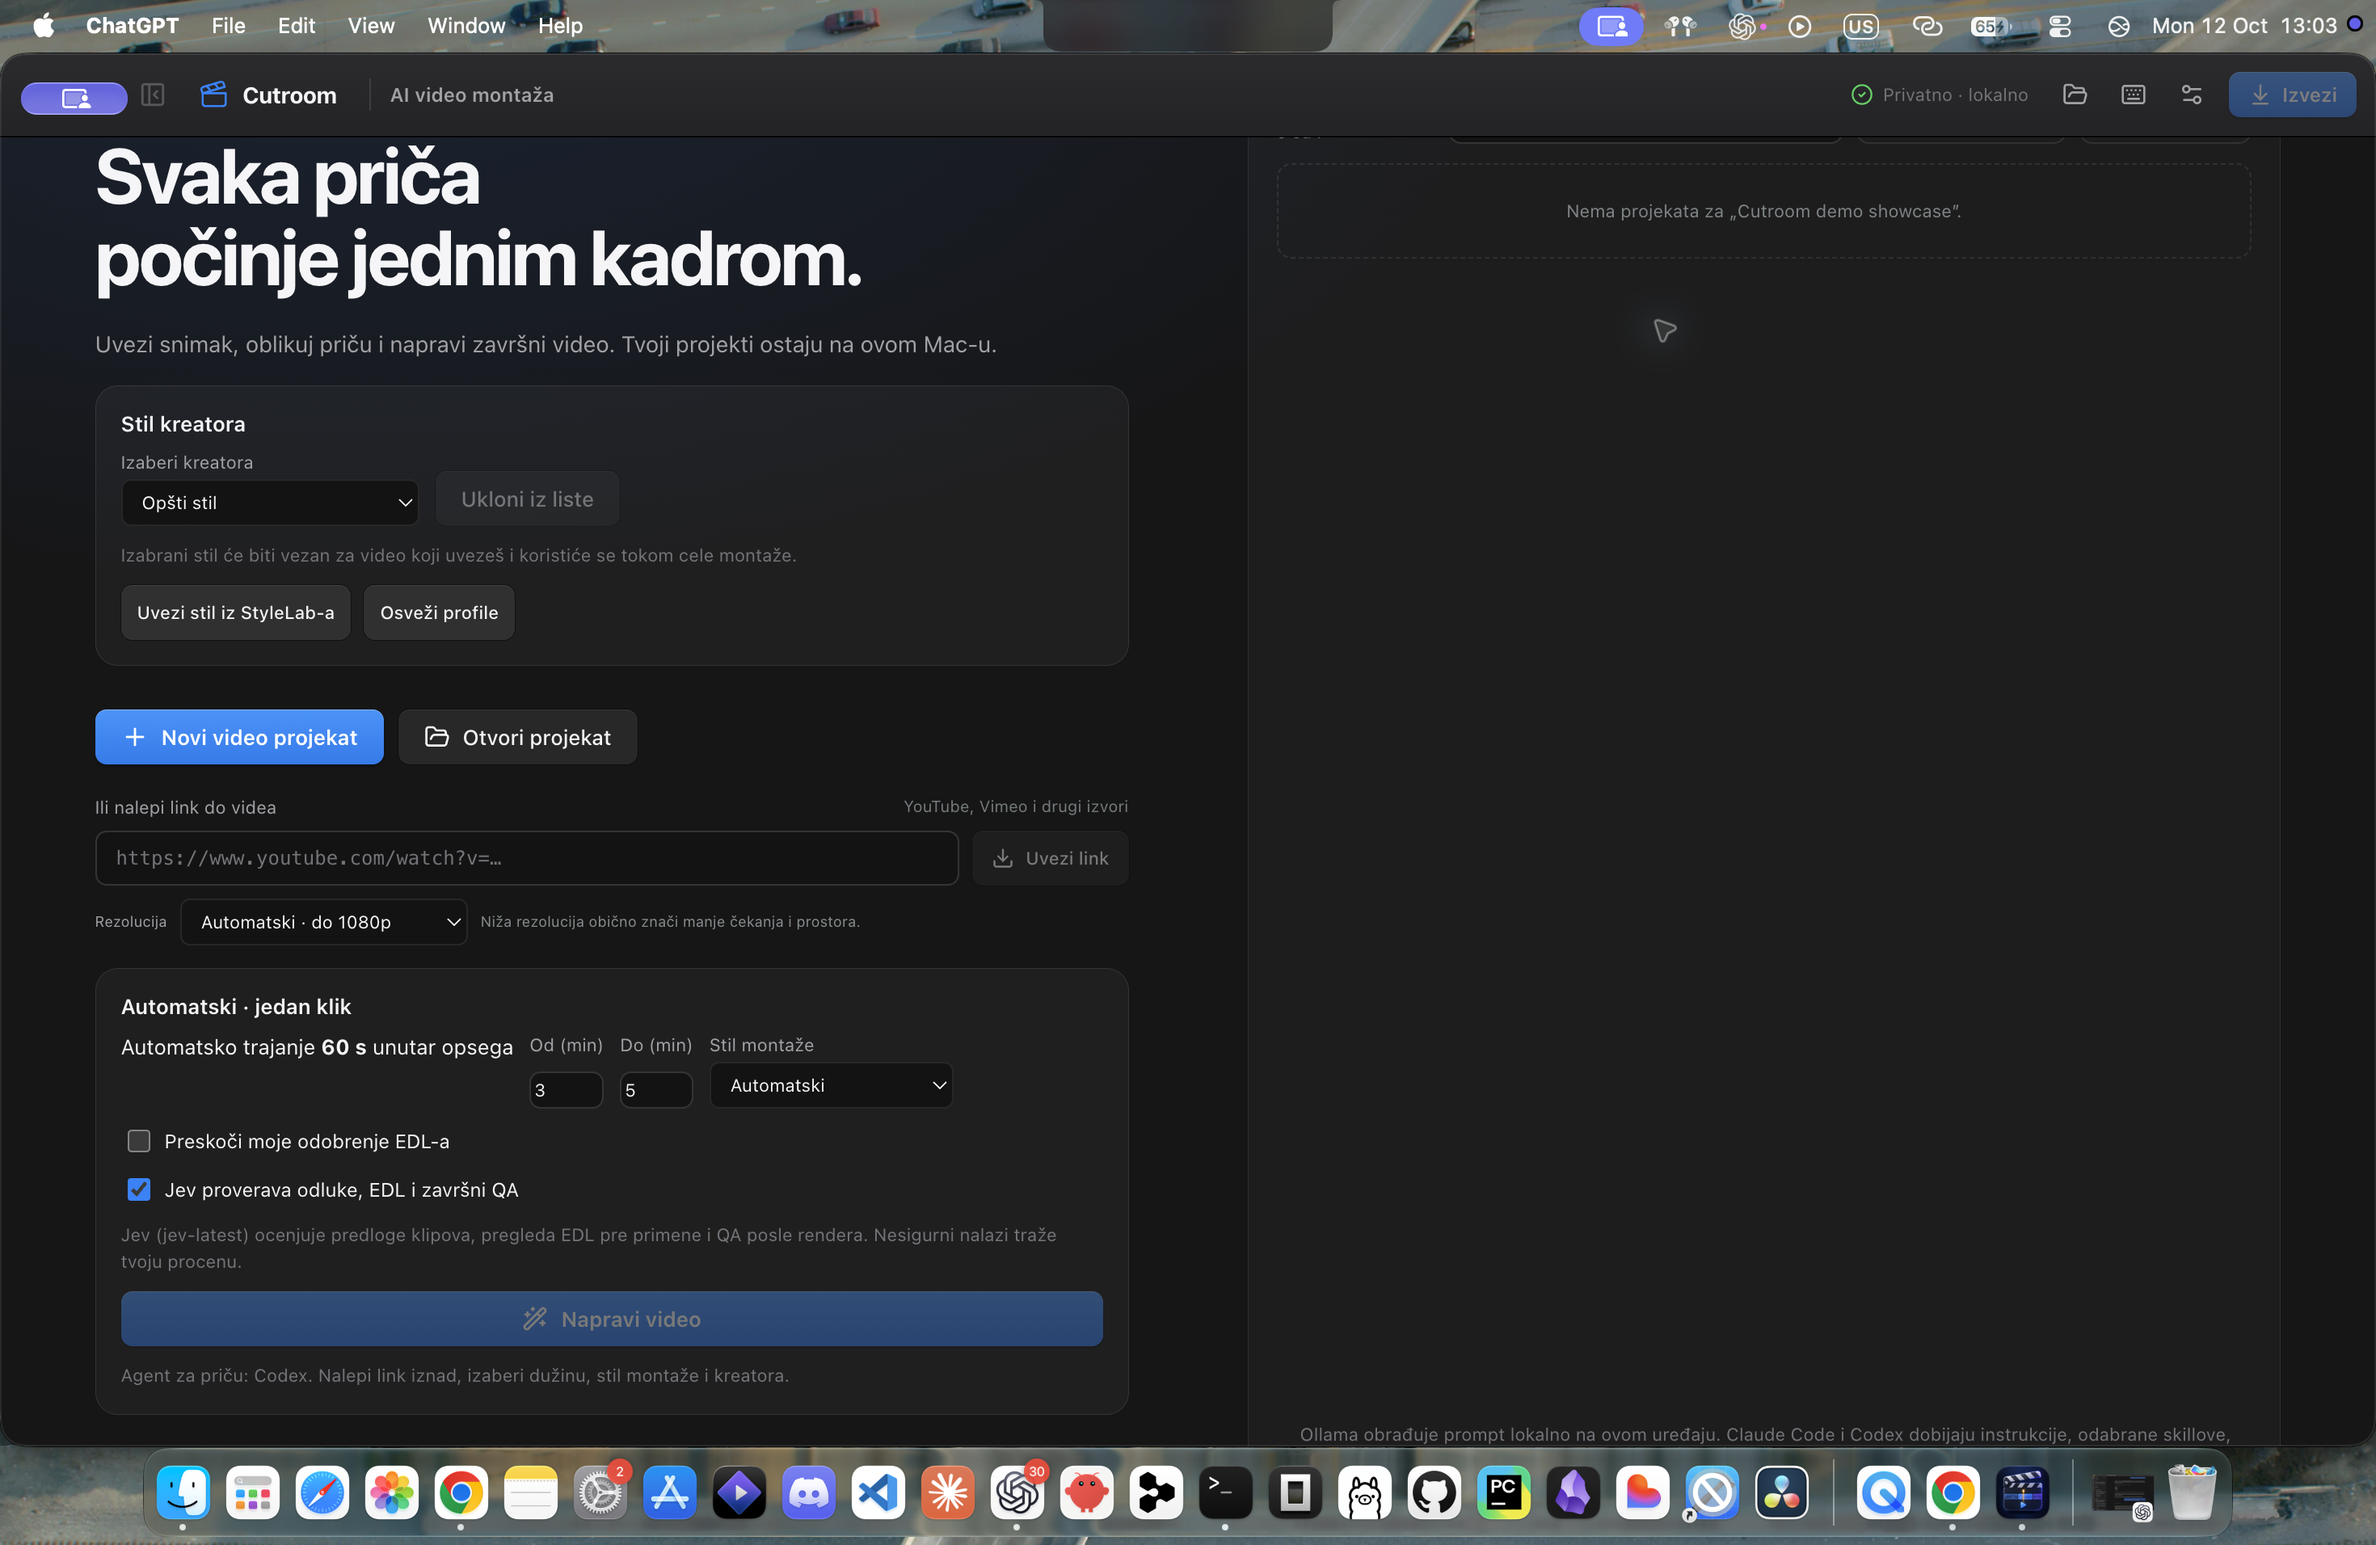
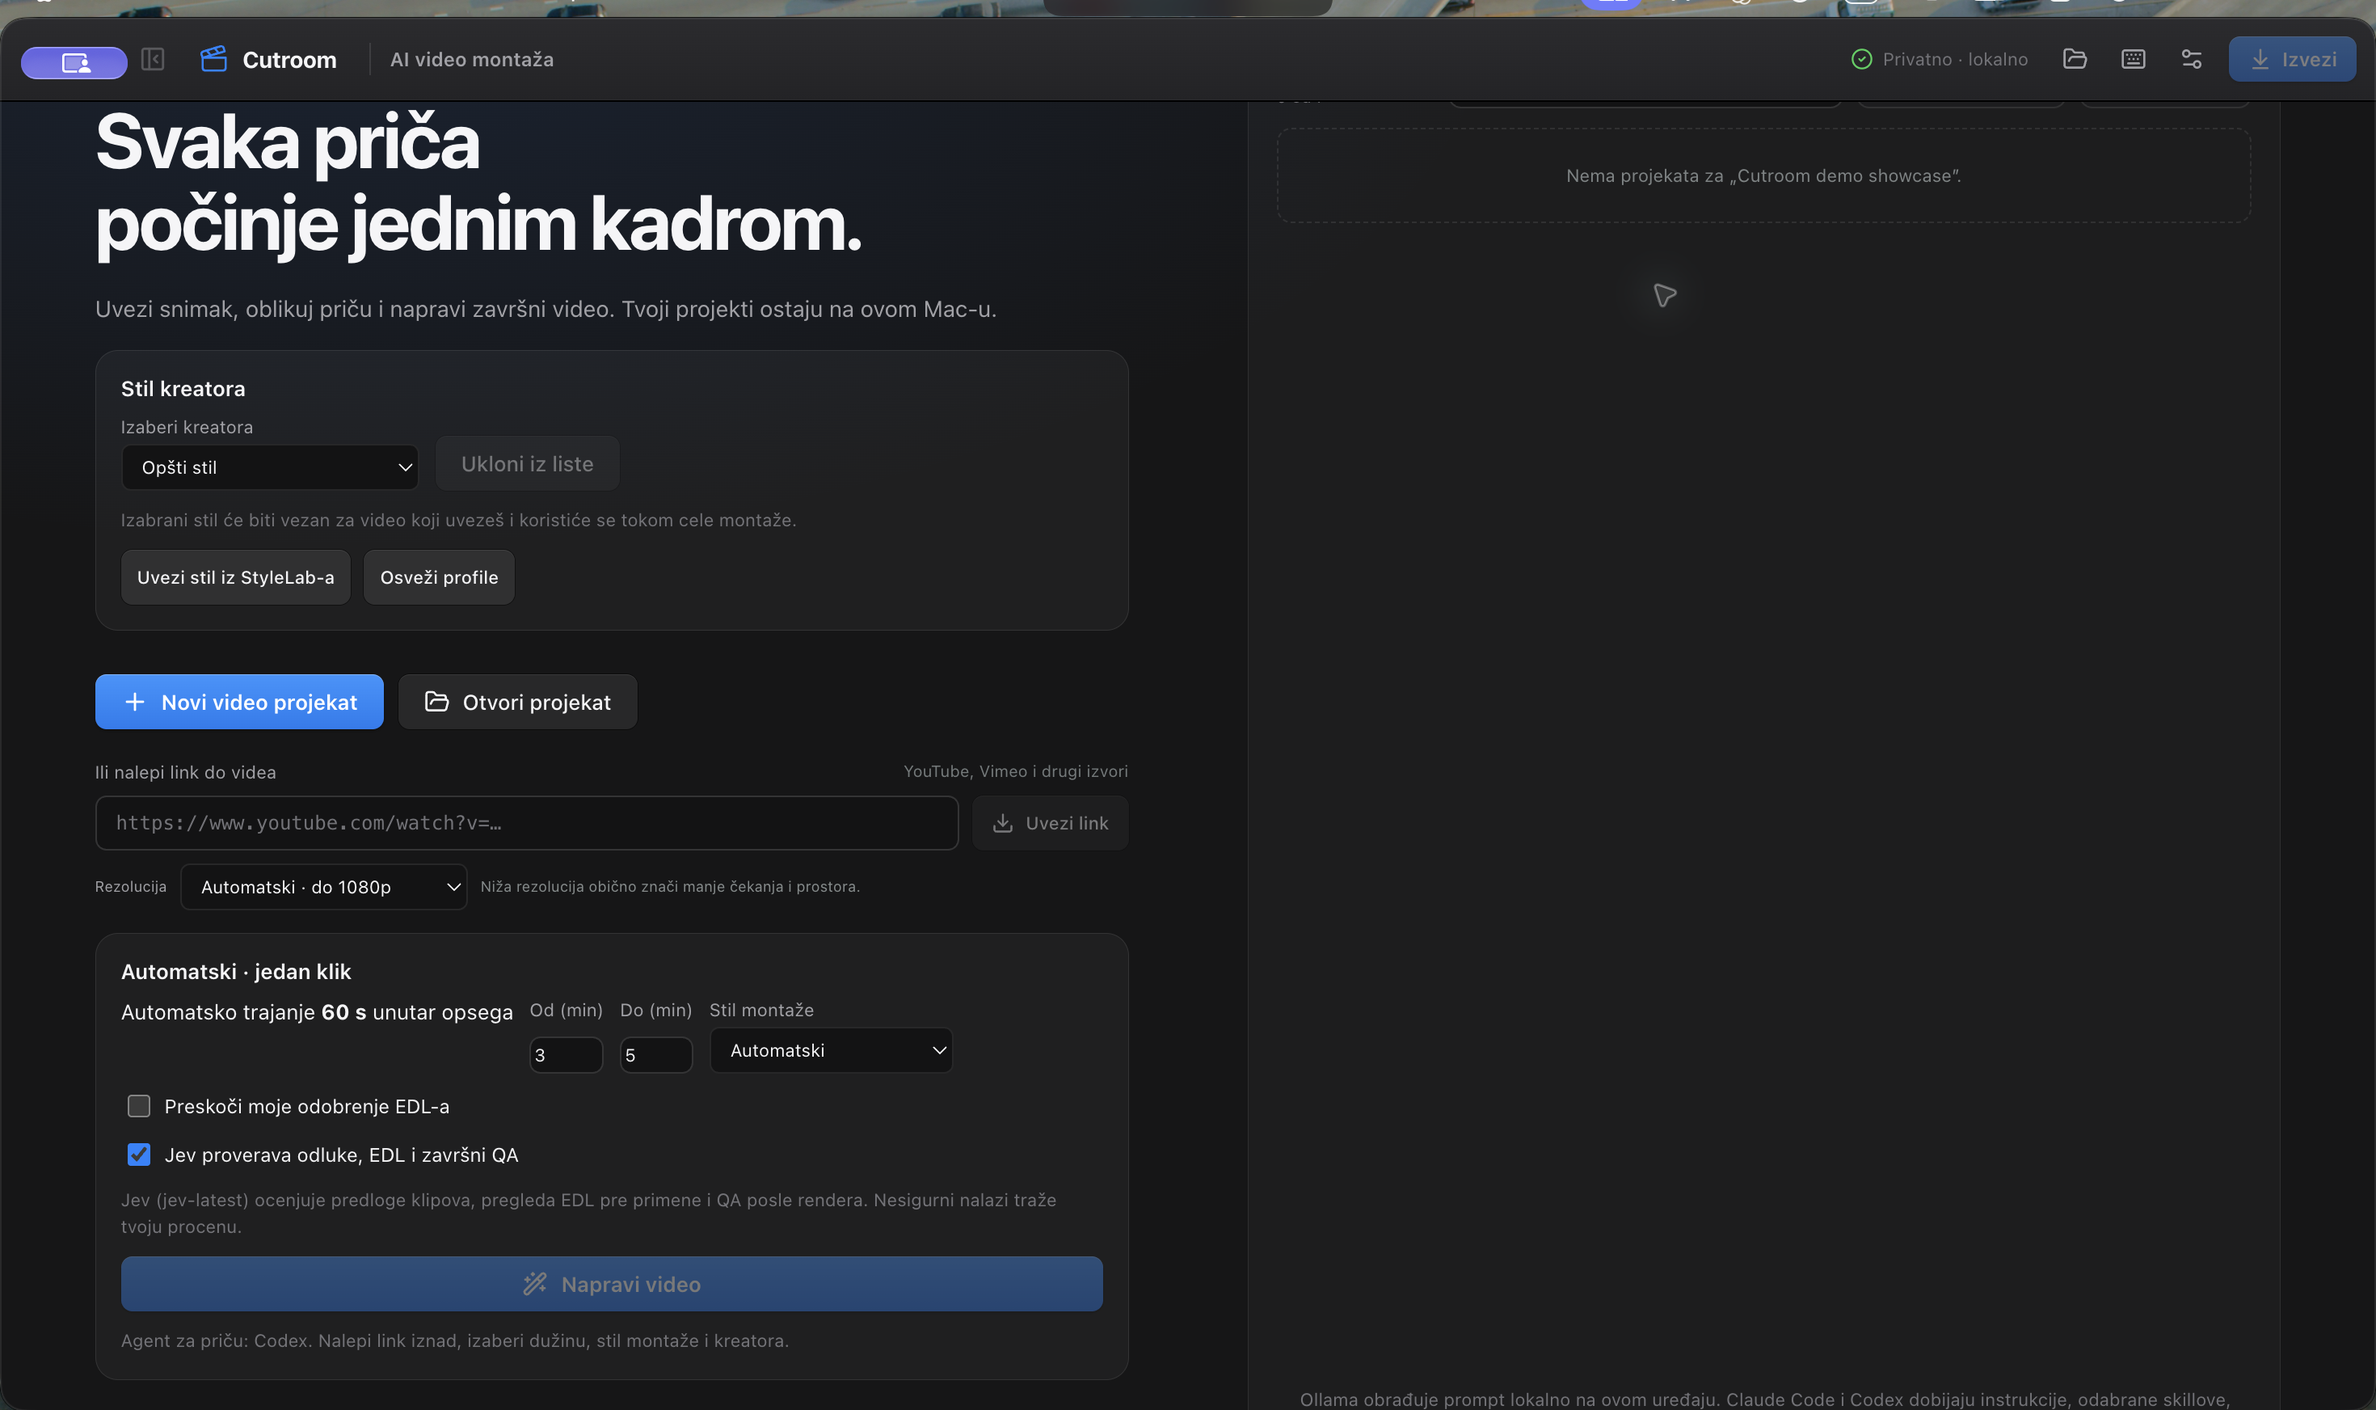
Improve Cutroom showcase screenshots and description

diff --git a/README.md b/README.md
@@ -1,31 +1,48 @@
 # Cutroom
 
-**A local-first workspace for AI-assisted video editing.**
+**Turn long recordings into polished short-form videos, with AI assistance and the editor in control.**
 
-Cutroom helps creators shape long recordings into short-form edits. Review an AI-proposed story, edit cuts from the transcript, refine the timeline and captions, then check and export the finished video.
+Cutroom is a desktop video-editing workspace for creators who want to shape a long recording into a clear, engaging edit. It helps organize source footage, find the story, build an edit, and prepare a finished export—all in one place.
+
+AI can suggest a story structure and an edit decision list (EDL), but the editor reviews and approves the choices. From there, work with the transcript and timeline, refine framing and captions, add music or B-roll, and check the final render before exporting.
 
 ## Screenshots
 
-### Home
+### Start a project
+Choose a creator style, open a local project, or start from a video link. The home screen brings the main workflows together.
 
 ![Cutroom home screen](screenshots/home.png)
 
-### Style Lab
+### Study references in Style Lab
+Review reference videos, compare their pacing, and use Hook Studio to develop hook ideas for your topic and audience.
 
-![Cutroom Style Lab reference analysis](screenshots/style-lab.png)
+![Cutroom Style Lab](screenshots/style-lab.png)
 
-### Timeline editor
+### Edit the story on a timeline
+Review the source, story, transcript, cuts, framing, titles, and export checks in a single editing workspace.
 
 ![Cutroom timeline editor](screenshots/timeline-editor.png)
 
-## Highlights
+### Timeline detail
+A closer look at the story segments, video and dialogue tracks, music, captions, and B-roll lanes.
 
-- AI-assisted story and edit-decision proposals, reviewed by the editor before approval
-- Word-level transcript edits with undo and redo
-- Timeline editing, captions, subject framing, and exports for multiple aspect ratios
-- Render checks for audio levels, black frames, silence, and timing
-- Projects and source media stored locally; cloud agents receive selected context according to provider settings
+![Close-up of the Cutroom editing timeline](screenshots/timeline-detail.png)
 
-## About
+## What Cutroom does
 
-Cutroom is proprietary software. This public repository is a visual project overview; it does not contain source code, build files, or an application download.
+- **Finds a story in long footage:** AI-assisted story and EDL proposals help identify a structure for short-form edits. The editor can review the proposal before applying it.
+- **Uses reference videos to guide the edit:** Style Lab analyzes pacing across selected references, while Hook Studio helps draft hooks for a specific topic and audience.
+- **Connects transcript and timeline editing:** Refine cuts from the transcript, then arrange and adjust story segments on the timeline with undo and redo.
+- **Shapes the finished video:** Adjust framing, captions, titles, music, and B-roll, with support for different aspect ratios.
+- **Checks exports:** Review render quality, including audio levels, black frames, silence, and timing, before exporting.
+- **Keeps projects on your Mac:** Project files and media stay local. When an online AI provider is selected, only the context needed for that request is sent according to the provider settings; local Ollama processing stays on-device.
+
+## O Cutroom-u
+
+Cutroom je desktop aplikacija za montažu koja pomaže da se od dugog snimka napravi jasno strukturisan video za društvene mreže. U jednom radnom prostoru možeš da pregledaš snimak i transkript, pronađeš glavne delove priče, urediš kadrove na vremenskoj liniji, dodaš titlove, muziku i B-roll, pa proveriš i izvezeš završni video.
+
+AI može da predloži strukturu priče i EDL (listu odluka za montažu), ali ti pregledaš predloge i odlučuješ šta će ući u montažu. Style Lab pomaže da proučiš ritam referentnih videa, a Hook Studio predlaže uvodne rečenice prilagođene temi i publici. Projekti i mediji čuvaju se lokalno na Mac-u; obrada preko Ollama modela takođe ostaje na uređaju.
+
+## About this repository
+
+Cutroom is proprietary software. This public repository is a visual showcase with screenshots and a product overview; it does not include the application source code, build files, or an app download.
